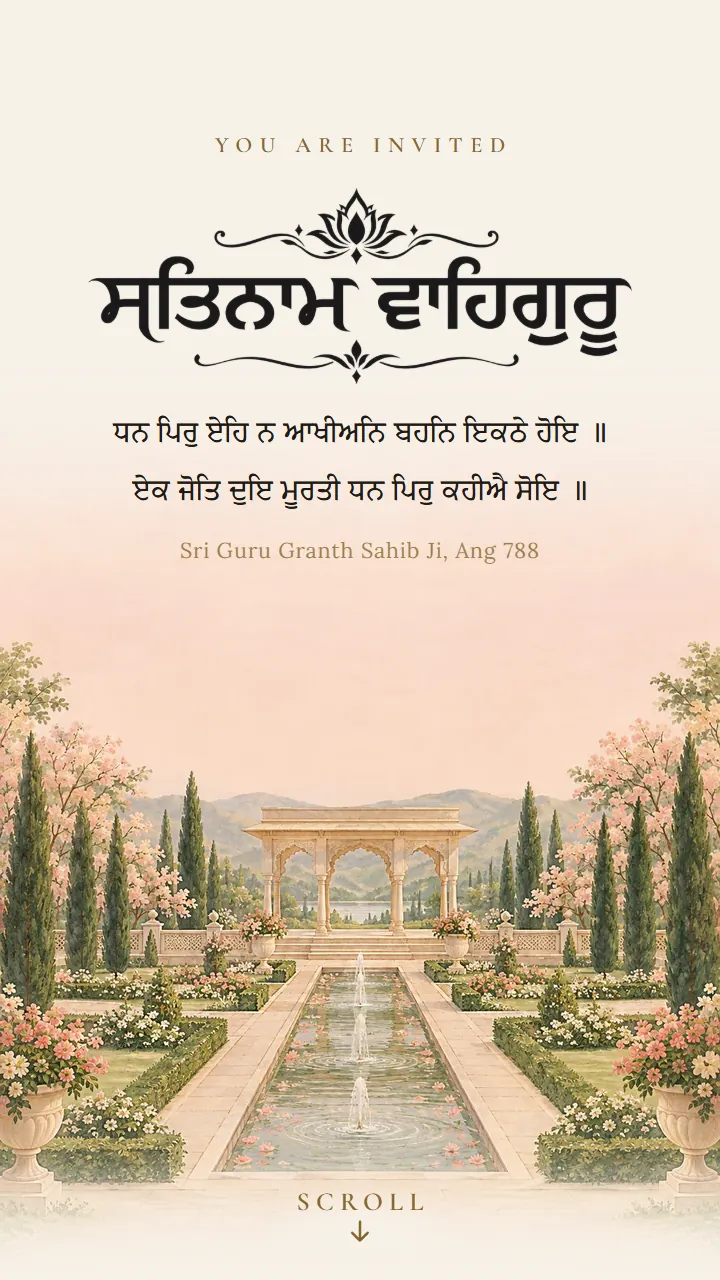
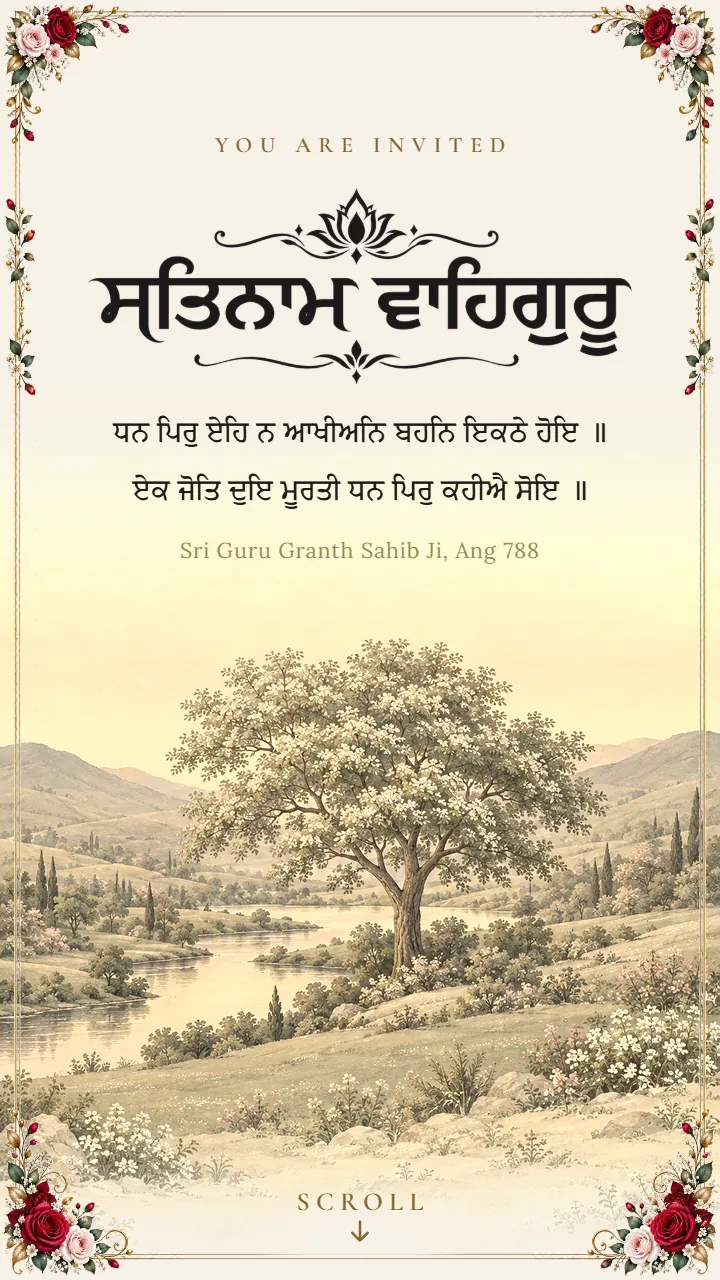
style(traditions): new look for Gurdwara Ivory
Ivory and gold in a slim gold double rule with small roses at its corners (flowerRosegold; it had no frame), and on the first screen the valley and its tree printed in old gold (sceneTone) and the other way round (sceneMirror), so it is not Bodhi Ivory's jade valley; it replaces the palace garden it shared with six cards. Ik Onkar above the names and the Nishan Sahib at the sides join the gurdwara arch. Rose petals as it opens, in place of mogra, and golden ivory feathers drift; mogra garlands part the sections. The cover is the envelope and wax seal instead of the gatefold. Word-mark, words and type as before.

Gallery preview remade. Saved cards keep the look they were saved with.

diff --git a/lib/presets.ts b/lib/presets.ts
@@ -520,7 +520,7 @@ const PRESETS: readonly Preset[] = [
   {
     id: "gurdwara-ivory",
     name: "Gurdwara Ivory",
-    description: "Calm ivory and gold, the names under a gurdwara arch.",
+    description: "Ivory and gold, the valley at first light, the names under a gurdwara arch.",
     tradition: "sikh",
     settings: {
       paletteId: "cream",
@@ -529,16 +529,20 @@ const PRESETS: readonly Preset[] = [
       accentOverride: PALETTE_CHAMPAGNE,
       fontPairId: "elegant",
       density: "airy",
-      borderStyle: "none",
+      /* A slim gold double rule with small roses at its corners. */
+      borderStyle: "flowerRosegold",
       decorMotion: "drift",
       decorIntensity: "subtle",
       butterflies: "none",
-      leaves: false,
-      /* A few white petals as the card opens, and then nothing moving over the arch. */
+      /* Golden ivory feathers drifting, slow and calm. */
+      leaves: true,
+      nature: "feathers",
+      /* Rose petals as the card opens, as at an Anand Karaj. */
       petals: "open",
-      petalFlower: "mogra",
-      coverAnimation: "fold-unfold",
-      ornaments: ["gurudwaraArch"],
+      petalFlower: "rose",
+      coverAnimation: "envelope-seal",
+      /* Ik Onkar above, the names under the arch, the Nishan Sahib at the sides. */
+      ornaments: ["ikOnkar", "gurudwaraArch", "nishanSahibPennant"],
       calligraphy: "satnamWaheguru",
       greetingIfNone: "ikOnkar",
       blessingIfNone: "anandBlessing",

diff --git a/templates/gurdwara-ivory/config.ts b/templates/gurdwara-ivory/config.ts
@@ -5,14 +5,19 @@ import type { TemplateConfig } from "@/templates/types";
 /**
  * The "gurdwara-ivory" preset as a template: its look from lib/presets.ts, and
  * the colourways and type pairs a host may change it to. See presetTemplate.
+ *
+ * Its painting is the valley and its tree printed in old gold and the other
+ * way round, the tree on the right and the river on the left, so it is not
+ * Bodhi Ivory's valley; mogra garlands part its sections.
  */
 export const GURDWARA_IVORY: TemplateConfig = presetTemplate({
   presetId: "gurdwara-ivory",
   preview,
   ownPaletteLabel: "Ivory",
-  palettes: [
-    plain("sand", "sand"),
-    plain("blush", "blush"),
-  ],
+  palettes: [plain("sand", "sand"), plain("blush", "blush")],
   fontPairs: ["royal", "classic"],
+  scene: "valleyTree",
+  sceneTone: "gold",
+  sceneMirror: true,
+  divider: "mogra",
 });
